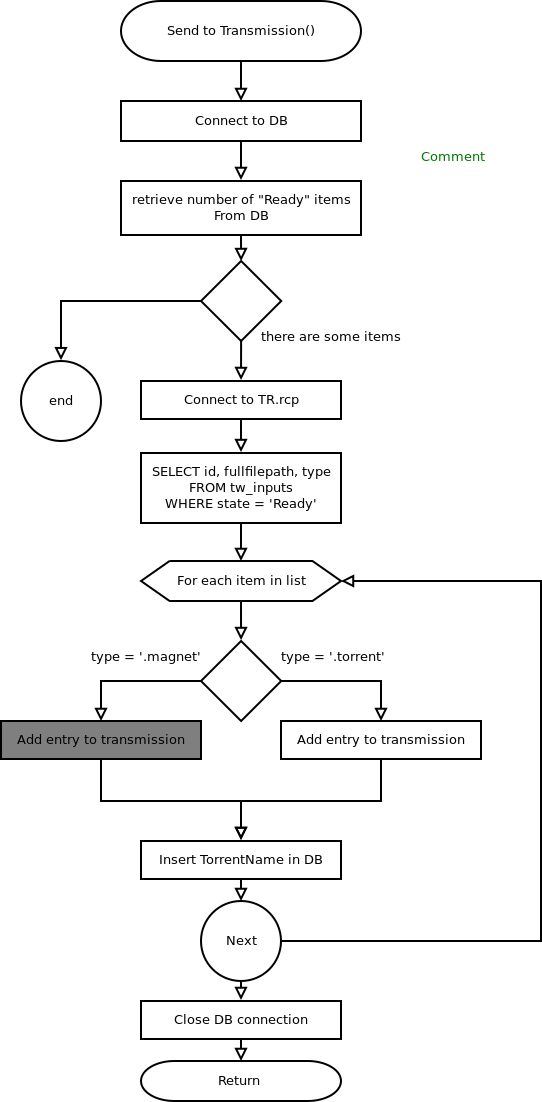
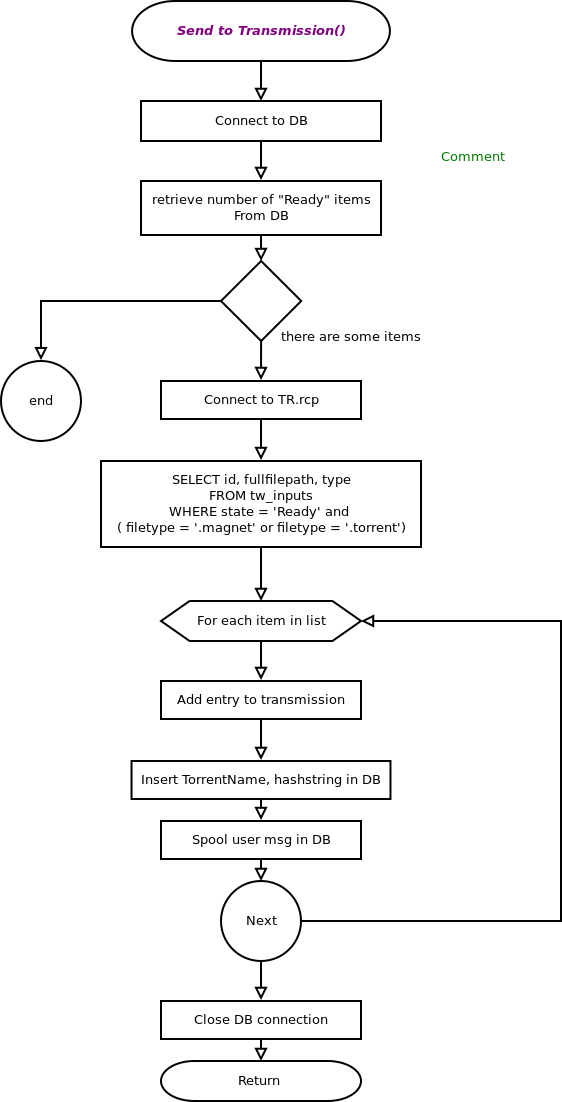
Sendding to transmission just magnets and .torrents entries in database.

diff --git a/Gideon.py b/Gideon.py
@@ -1130,11 +1130,11 @@ def connectTR():
 def SendtoTransmission():
 	con = sqlite3.connect (dbpath) # it creates one if it doesn't exists
 	cursor = con.cursor() # object to manage queries
-	nfound = (cursor.execute ("SELECT count(id) FROM tw_inputs WHERE status = 'Ready'").fetchone())[0]
+	nfound = (cursor.execute ("SELECT count(id) FROM tw_inputs WHERE status = 'Ready' and ( filetype = '.magnet' or filetype = '.torrent') ").fetchone())[0]
 	if nfound > 0:
 		logging.info (str(nfound) + 'new torrent entries have been found.')
 		tc = connectTR ()
-		cursor.execute ("SELECT id, fullfilepath FROM tw_inputs WHERE status = 'Ready'")
+		cursor.execute ("SELECT id, fullfilepath FROM tw_inputs WHERE status = 'Ready'  and ( filetype = '.magnet' or filetype = '.torrent')")
 		for Id, Fullfilepath in cursor:
 			trobject = tc.add_torrent (Fullfilepath)
 			TRname = trobject.name
